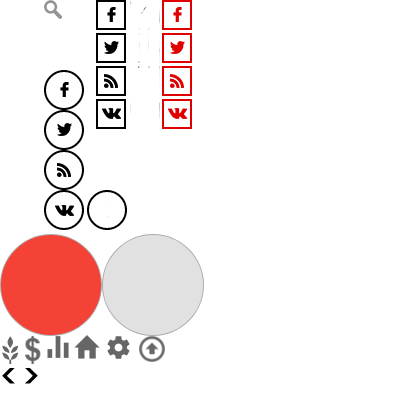
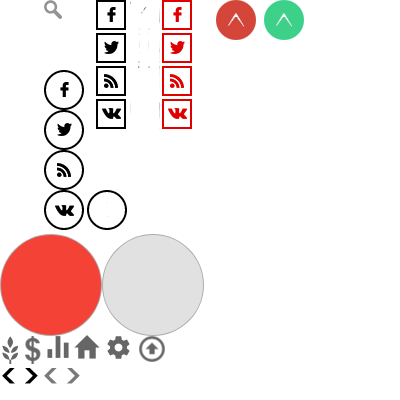
99_5-percent

Changed region(s): [[0.54, 0.0, 0.78, 0.12], [0.09, 0.9, 0.21, 0.96]]

diff --git a/style.css b/style.css
@@ -253,34 +253,39 @@ a {
     width: 40px;
     height: 40px;
 }
+
 .btn-social-fb {
     background: url(img/png/List_of_icons.png) 0px -70px;
 }
-.btn-social-fb:hover{
 
+.btn-social-fb:hover {
     background: url(img/png/List_of_icons.png) -44px -70px;
 }
+
 .btn-social-twitter {
     background: url(img/png/List_of_icons.png) 0px -110px;
 }
-.btn-social-twitter:hover{
 
+.btn-social-twitter:hover {
     background: url(img/png/List_of_icons.png) -44px -110px;
 }
+
 .btn-social-rss {
     background: url(img/png/List_of_icons.png) 0px -150px;
 }
-.btn-social-rss:hover{
 
+.btn-social-rss:hover {
     background: url(img/png/List_of_icons.png) -44px -150px;
 }
+
 .btn-social-vk {
     background: url(img/png/List_of_icons.png) 0px -190px;
 }
-.btn-social-vk:hover{
 
+.btn-social-vk:hover {
     background: url(img/png/List_of_icons.png) -44px -190px;
 }
+
 .header-bottom-social-buttons a:nth-child(1) {
     margin-left: 0px;
 }
@@ -556,9 +561,11 @@ h3:hover {
     bottom: 13px;
     left: 70px;
 }
-.gallery-buy-button:hover{
+
+.gallery-buy-button:hover {
     background-color: forestgreen;
 }
+
 .gallery-buy-button a {
     display: block;
     margin-top: 3px;
@@ -639,6 +646,10 @@ h3:hover {
     background: url(img/png/left-arrow.png) no-repeat;
 }
 
+.left-arrow:hover {
+    outline: 2px solid aqua;
+}
+
 .left-arrow a {
     display: block;
     width: 37px;
@@ -653,6 +664,9 @@ h3:hover {
     right: 377px;
     top: 300px;
     background: url(img/png/right-arrow.png) no-repeat;
+}
+.right-arrow:hover {
+    outline: 2px solid aqua;
 }
 
 .right-arrow a {
@@ -821,6 +835,10 @@ h3:hover {
     background: url(img/png/List_of_icons.png) 0px -368px no-repeat;
 }
 
+.featured-events-block-left-arrow:hover {
+    background: url(img/png/List_of_icons.png) -42px -368px no-repeat;
+}
+
 .featured-events-block-right-arrow {
     width: 18px;
     height: 16px;
@@ -828,6 +846,10 @@ h3:hover {
     right: 405px;
     top: 10px;
     background: url(img/png/List_of_icons.png) -20px -368px no-repeat;
+}
+
+.featured-events-block-right-arrow:hover {
+    background: url(img/png/List_of_icons.png) -62px -368px no-repeat;
 }
 
 .featured-events-block-left-arrow a {
@@ -889,9 +911,11 @@ h3:hover {
     border-radius: 4px;
     box-shadow: 0 1px 3px rgba(0, 0, 0, 0.2);
 }
-.featured-event-closed:hover{
+
+.featured-event-closed:hover {
     border-color: #999999;
 }
+
 .featured-event-opened-text {
     /* Style for "Lorem Ipsu" */
     color: #505050;
@@ -1081,9 +1105,11 @@ h3:hover {
     font-weight: 300;
     border: 0px;
 }
-.subscribe-email-button:hover{
+
+.subscribe-email-button:hover {
     background-color: forestgreen;
 }
+
 .contact-us {
     width: 1920px;
     height: 1111px;
@@ -1101,7 +1127,6 @@ h3:hover {
     font-family: "Poppins";
     font-size: 36px;
     font-weight: 500;
-
 }
 
 .contact-us-left {
@@ -1198,9 +1223,11 @@ h3:hover {
     font-weight: 400;
     text-transform: uppercase;
 }
-.contact-us-button:hover{
+
+.contact-us-button:hover {
     background-color: forestgreen;
 }
+
 .map {
     width: 1169px;
     height: 298px;
@@ -1217,22 +1244,43 @@ h1.map-h1 {
     width: 1920px;
     height: 71px;
     background-color: #000000;
+    float: left;
 }
 
 .copyright {
+    display: block;
     margin: 29px auto;
     /* Style for "© 2017 Ист" */
-width: 310px;
-height: 14px;
-color: #ffffff;
-font-family: "Arial Narrow";
-font-size: 16px;
-font-weight: 400;
+    width: 310px;
+    height: 14px;
+    color: #ffffff;
+    font-family: "Arial Narrow";
+    font-size: 16px;
+    font-weight: 400;
 }
 
-
-
 .search-button:hover {
-     background: url(img/png/List_of_icons.png) -34px 9px no-repeat;
-     border-color: aqua;
+    background: url(img/png/List_of_icons.png) -34px 9px no-repeat;
+    border-color: aqua;
+}
+
+.Button-to-top {
+    /* Style for "arrow copy" */
+    width: 40px;
+    height: 40px;
+    float: right;
+    margin-right: 55px;
+    margin-top: -90px;
+}
+
+.Button-to-top a {
+    /* Style for "arrow copy" */
+    display: block;
+    width: 40px;
+    height: 40px;
+    background: url(img/png/List_of_icons.png) -216px 0px no-repeat;
+}
+
+.Button-to-top a:hover {
+    background: url(img/png/List_of_icons.png) -264px 0px no-repeat;
 }

diff --git a/index.html b/index.html
@@ -41,8 +41,9 @@
                 </div>
             </div>
             <!-- Основная страница-->
+            </div>
 
-            <body>
+            <div class="main">
                 <!-- Раздел О Нас-->
                 <div class="about-us">
                     <div class="about-us-info">
@@ -303,10 +304,11 @@
                     <h1 class="map-h1">Route Map</h1>
                     <div class="map"></div>
                 </div>
-            </body>
+            </div>
             <div class="footer">
                 <div class="copyright">© 2017 Историческе Игры. Все права защищены</div>
+                <div class="Button-to-top"><a href="#"></a></div>
             </div>
-        </div>
+
     </div>
 </body>
